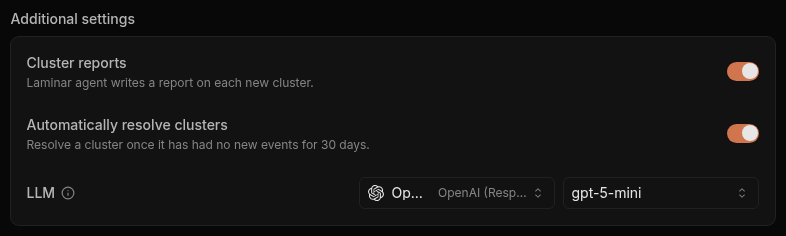
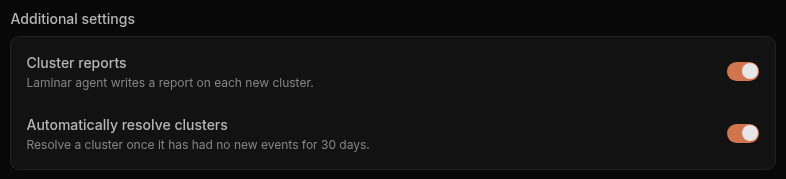
Drop the LLM profile row from the Additional settings screenshot
LLM profiles are self-hosted only, so Laminar Cloud users never see that
row. Retake the shot without it and update the caption and alt text.

diff --git a/CLAUDE.md b/CLAUDE.md
@@ -418,6 +418,7 @@ This is a Mintlify site. Pages are `.mdx`, navigation lives in `docs.json`, reus
 - Templates are **Issues / Intent / Friction / Blank**. Onboarding's Signals step (`components/onboarding/steps/signals-step/constants.ts`) offers Issues (preselected), Intent and Friction, and `setTemplateSignals` names each created Signal exactly after its template, so demo data and screenshots must use the names **Issues**, **Intent**, **Friction** (not "User intent" etc.; the user caught that on PR #288). Self-hosted (no `Feature.SUBSCRIPTION`) seeds only **Issues**, which has a single `description` field. "Failure Detector", "Task", and "Hallucination Detector" templates no longer exist.
 - **Feedback** = discarding an event from the trace view's Signals panel (button **Discard**, dialog **Discard event**) with a reason; the reason is added to the Signal's instruction on future runs and listed under Overview > Feedback. Documented on `/signals/quickstart#teach-the-signal-with-feedback`.
 - **Seeding the clusters UI for screenshots** (LAM-2537): signal evaluation and clustering don't run on the local stack, so the shots come from seeded data. The scripts are `/sandbox/scratch/seed_signals.py` (ClickHouse: `signal_events`, `signal_event_clusters` with 768-dim zero centroids, `signal_event_summaries`, `signal_runs`) and `seed_pg.sql` (Postgres: `signal_cluster_reports`, `signal_cluster_resolutions`, `signal_cluster_archives`, `signal_cluster_views`), plus 30 real traces from `/sandbox/scratch/support_agent.py`. Gotchas: the frontend prod build needs `NODE_OPTIONS=--max-old-space-size=6144`; on Cloud-off builds a Signal can't be created without an LLM profile, so add one with a placeholder key; the startup-seeded Issues Signal had Cluster reports off and its default alerts had no recipient, so fix both before shooting; the sidebar's Signals list starts collapsed after every reload, so expand it before each shot.
+- **Leave the LLM row out of Signal settings screenshots.** The local stack is self-hosted, so the Additional settings box renders an **LLM** profile/model row (`llm-profile-section.tsx`, gated by `Feature.SIGNAL_LLM_PROFILES`) that Laminar Cloud users never see. The user asked to keep it out of the docs: remove the row from the DOM before capturing (it's the `.grid` child of the box whose text starts with `LLM`), which renders exactly what Cloud shows.
 - `guides/signals.mdx`'s travel-planner clusters screenshot (`clusters-example.png`) showed the icicle view and its dataset isn't reproducible here, so it was removed rather than reshot; the narrative numbers (23 / 202 events) stay as prose.
 
 ## Signals clusters page (`/signals/clusters.mdx`)
